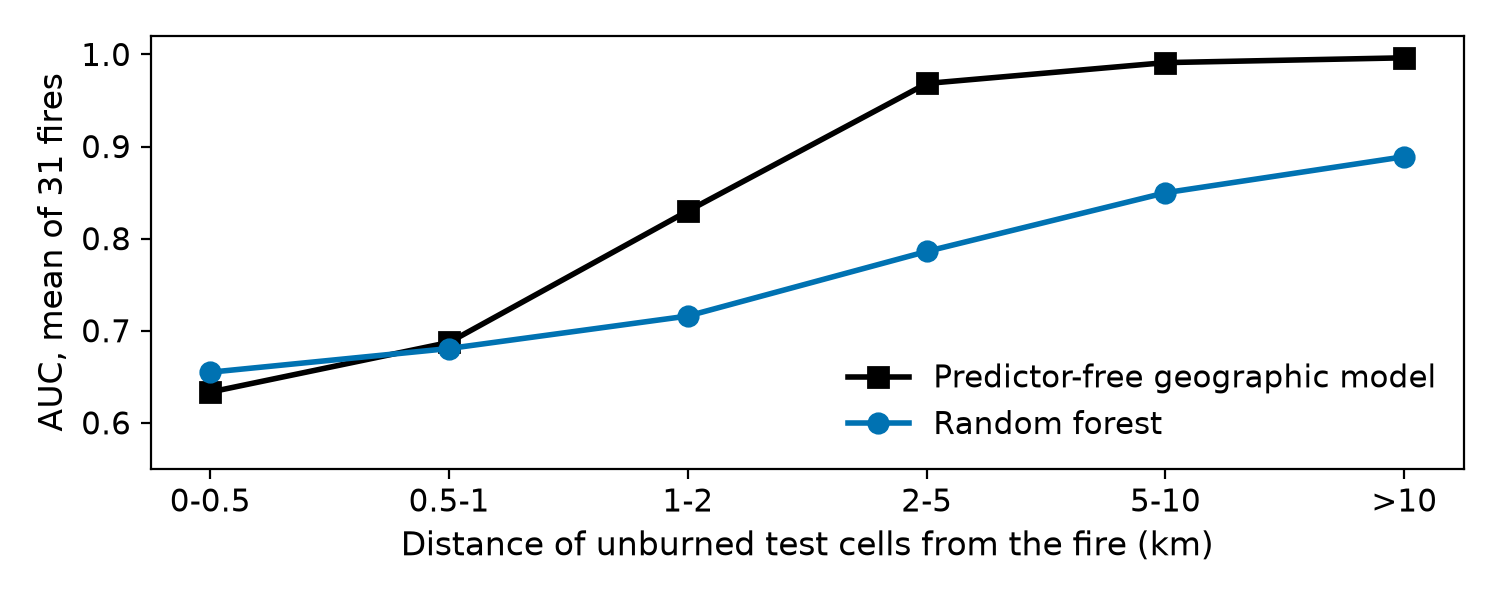
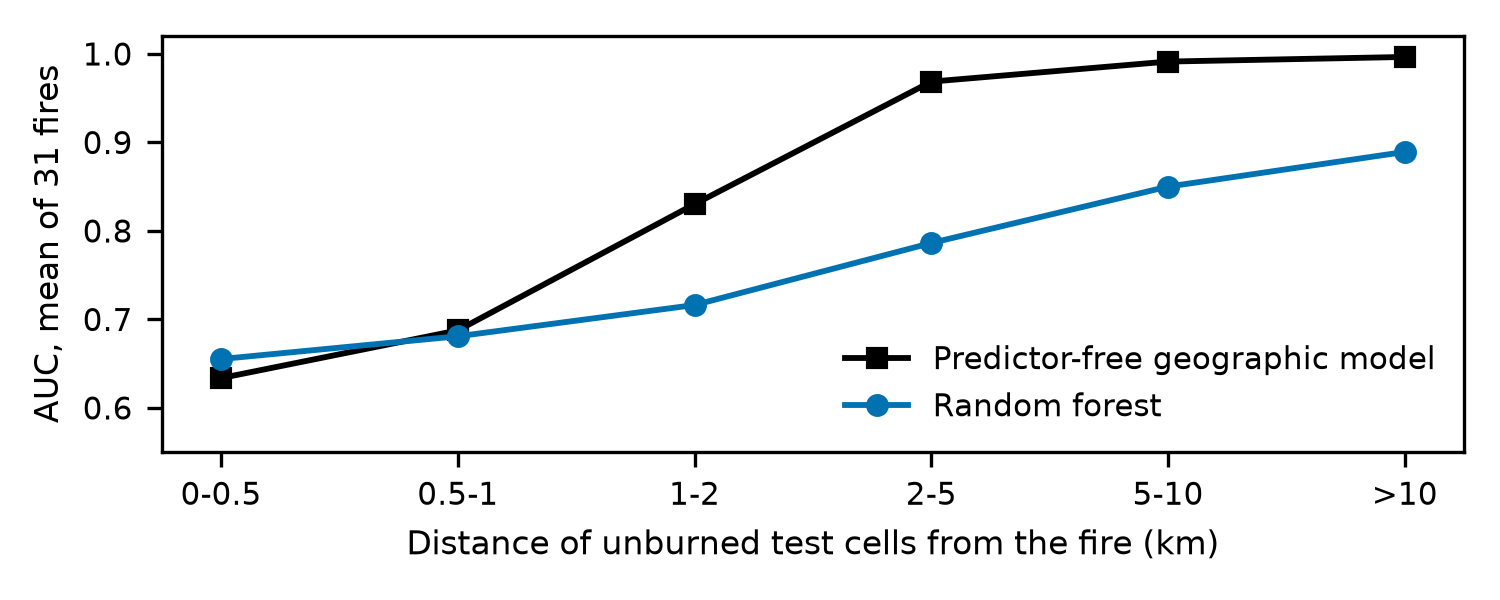
EMS draft: third review round (label-variant means over common fires, near-band reason, far-band wording, 300 dpi graphical abstract, provenance in the statistics file, strict buffer cache check)

diff --git a/paper/submissions/ems/build_values_figures.py b/paper/submissions/ems/build_values_figures.py
@@ -133,9 +133,9 @@ for b, tag in ((1, "One"), (2, "Two"), (5, "Five"), (10, "Ten")):
     scored = total = fires = 0
     for r in _fr.itertuples():
         hits = list((AN / "cache").glob(f"{r.fire}_buffer{b}_b10_*.npy"))
-        if len(hits) != 1:
-            continue
+        assert len(hits) == 1, f"expected one buffer cache file for {r.fire} at {b} km, found {len(hits)}"
         o = np.load(hits[0])[0]
+        assert len(o) == r.cells, (r.fire, b, len(o), r.cells)       # one prediction slot per population cell
         n_ok = int(np.isfinite(o).sum())
         scored, total, fires = scored + n_ok, total + len(o), fires + (n_ok > 0)
     MS["buffers"][f"{b}_km"] = {"cells_scored": scored, "cells_total": total, "fires_with_scored_cells": fires}
@@ -192,12 +192,20 @@ RB["threshold"] = RB.threshold.str.zfill(3)
 RB = RB[RB.model == "rf_thermal"]
 _bandcols = list(names)
 MS["label_variants"] = {}
+_outer = _bandcols[1:]          # the farthest band is chosen among the bands beyond 0.5 km
 for (th, vn), g in RB.groupby(["threshold", "variant"]):
     near = g["0-0.5"].to_numpy(float)
-    far = g[_bandcols].apply(lambda r: r.dropna().iloc[-1] if r.notna().any() else np.nan, axis=1).to_numpy(float)
+    far_band = g[_outer].apply(lambda r: r.dropna().index[-1] if r.notna().any() else None, axis=1)
+    far = np.array([g.loc[i, b] if b is not None else np.nan for i, b in far_band.items()], float)
+    both = np.isfinite(near) & np.isfinite(far)            # every mean below is over the same fires
     rise = far - near
     tag = {"mcd64a1": "Mcd", "b_drop_ambiguous": "Drop", "c_relabel": "Relabel", "a_s2_label": "Stwo"}[vn] + ("" if th == "027" else "Loose")
-    st = {"near": boot(near), "far": boot(far), "rise": boot(rise), "fires_positive_rise": int((rise > 0).sum()), "fires": int(np.isfinite(rise).sum())}
+    st = {"fires": int(both.sum()), "fires_without_near_band": int((~np.isfinite(near)).sum()),
+          "fires_without_far_band": int((~np.isfinite(far)).sum()),
+          "far_band_used": {str(k): int(v) for k, v in far_band[both].value_counts().items()},
+          "near": boot(near[both]), "far": boot(far[both]), "rise": boot(rise[both]),
+          "fires_positive_rise": int((rise[both] > 0).sum())}
+    put(f"vnoNear{tag}", st["fires_without_near_band"])
     MS["label_variants"][f"{vn}_{th}"] = st
     ci(f"vfar{tag}", st["far"]), ci(f"vrise{tag}", st["rise"]), put(f"vrisePos{tag}", f"{st['fires_positive_rise']} of {st['fires']}"), put(f"vriseN{tag}", st["fires"])
 
@@ -284,7 +292,32 @@ if (AN / "claim4_summary.json").exists():
     put("curveLastK", ks[-1])
 
 MS["note"] = ("Statistics computed by build_values_figures.py from the analysis outputs. transfer_fire_level supersedes "
-              "the direction-level intervals in claim4_summary.json (plan amendment 3).")
+              "the direction-level intervals in claim4_summary.json (plan amendment 3). label_variants: near, far and rise "
+              "are means over the same fires (those with both bands scored); far is the farthest band beyond 0.5 km with "
+              "at least 20 unburned cells, and far_band_used counts which band that was.")
+
+
+def _git(path):
+    import subprocess
+    r = subprocess.run(["git", "-C", str(path), "rev-parse", "HEAD"], capture_output=True, text=True)
+    d = subprocess.run(["git", "-C", str(path), "status", "--porcelain"], capture_output=True, text=True)
+    return {"commit": r.stdout.strip(), "uncommitted_changes": bool(d.stdout.strip())}
+
+
+def _sha(p):
+    import hashlib
+    h = hashlib.sha256()
+    with open(p, "rb") as f:
+        for chunk in iter(lambda: f.read(1 << 20), b""):
+            h.update(chunk)
+    return h.hexdigest()
+
+
+MS["provenance"] = {
+    "analysis_checkout": _git(REPO), "build_checkout": _git(HERE),
+    "bootstrap": {"resamples": 2000, "seed": 42, "unit": "fire (node bootstrap for transfer directions)"},
+    "inputs_sha256": {p.name: _sha(p) for p in sorted(AN.glob("*.json")) + sorted(AN.glob("*.csv"))},
+}
 (HERE / "manuscript_statistics.json").write_text(json.dumps(MS, indent=1), encoding="utf-8")
 (HERE / "values.tex").write_text("% written by build_values_figures.py, do not edit\n" +
                                  "".join(f"\\newcommand{{\\v{k}}}{{{v}}}\n" for k, v in sorted(V.items())), encoding="utf-8")
@@ -341,18 +374,19 @@ fig.savefig(FIG / "Figure_2.pdf")
 plt.close(fig)
 
 # graphical abstract: its own wide layout, 5:2 (7.5 x 3 in at 200 dpi = 1500 x 600 px), two models only
-with plt.rc_context({"font.size": 12, "axes.labelsize": 12, "xtick.labelsize": 11, "ytick.labelsize": 11, "legend.fontsize": 11}):
-    fig, ax = plt.subplots(figsize=(7.5, 3.0))
+# 5 x 2 in at 300 dpi = 1500 x 600 px (Elsevier: 5:2, at least 300 dpi); fonts sized for that print width
+with plt.rc_context({"font.size": 8, "axes.labelsize": 8, "xtick.labelsize": 7.5, "ytick.labelsize": 7.5, "legend.fontsize": 7.5}):
+    fig, ax = plt.subplots(figsize=(5.0, 2.0))
     for m, lab in (("null", "Predictor-free geographic model"), ("rf_thermal", "Random forest")):
         mean = [P["bands"][b][f"auc_{m}"]["mean"] for b in order]
-        ax.plot(xs, mean, marker=MRK[m], color=COL[m], ms=7, lw=2, label=lab)
+        ax.plot(xs, mean, marker=MRK[m], color=COL[m], ms=4.5, lw=1.4, label=lab)
     ax.set_xticks(xs, ["0-0.5", "0.5-1", "1-2", "2-5", "5-10", ">10"])
     ax.set_xlabel("Distance of unburned test cells from the fire (km)")
     ax.set_ylabel("AUC, mean of 31 fires")
     ax.set_ylim(0.55, 1.02)
     ax.legend(frameon=False, loc="lower right")
     fig.tight_layout()
-    fig.savefig(HERE / "graphical_abstract.png", dpi=200)
+    fig.savefig(HERE / "graphical_abstract.png", dpi=300)
 plt.close(fig)
 
 # Fig. 3: label check, share of MCD64A1-unburned cells that Sentinel-2 maps as at least half burned, by band

diff --git a/paper/submissions/ems/manuscript.tex b/paper/submissions/ems/manuscript.tex
@@ -177,7 +177,7 @@ With the predictions fixed, the forest's AUC rose from \vbandARf{} [\vbandARfLo,
 \subsection{Edge labels}
 \label{sec:res-labels}
 
-The check covered \vsTwoUsed{} cells, and \vsTwoExcluded{} cells were left out for lack of valid Sentinel-2 pixels. With the planned threshold of 0.10, \vlerrLooseA\% of the unburned cells in the nearest band were at least half burned, but so were \vlerrLooseF\% of those beyond 10~km (Fig.~\ref{fig:labels}). With the stricter threshold the shares were \vlerrA\% [\vlerrALo, \vlerrAHi] and \vlerrF\%. Reading the stricter threshold as the more credible one, because the looser one flags many cells far from any fire, is our judgement after seeing the results. Under both thresholds the decision rule kept the band result. With the MCD64A1 label the nearest band scored \vnearMcd{} and the farthest \vfarMcd{}. Removing the ambiguous unburned cells gave \vnearDropLoose{} in the nearest band with the planned threshold and \vnearDrop{} with the stricter one, closing \vclosedDropLoose\% and \vclosedDrop\% of the gap (means over fires of the per-fire ratio). Relabelling the missed cells as burned gave \vnearRelabelLoose{} and \vnearRelabel{}, and the Sentinel-2 label alone gave \vnearStwoLoose{} and \vnearStwo{}. The farthest band changed less under every variant, and the mean rise from the nearest to the farthest band stayed positive, from \vvriseDropLoose{} to \vvriseStwoLoose{} with the planned threshold and from \vvriseDrop{} to \vvriseStwo{} with the stricter one. It was positive in every fire that kept both bands. Under the planned threshold with ambiguous cells removed, only \vvriseNDropLoose{} fires kept a farthest band with enough unburned cells. The alternative labels we tried thus did not remove the low score near the fire.
+The check covered \vsTwoUsed{} cells, and \vsTwoExcluded{} cells were left out for lack of valid Sentinel-2 pixels. With the planned threshold of 0.10, \vlerrLooseA\% of the unburned cells in the nearest band were at least half burned, but so were \vlerrLooseF\% of those beyond 10~km (Fig.~\ref{fig:labels}). With the stricter threshold the shares were \vlerrA\% [\vlerrALo, \vlerrAHi] and \vlerrF\%. Reading the stricter threshold as the more credible one, because the looser one flags many cells far from any fire, is our judgement after seeing the results. Under both thresholds the decision rule kept the band result. With the MCD64A1 label the nearest band scored \vnearMcd{} and the farthest \vfarMcd{}. Removing the ambiguous unburned cells gave \vnearDropLoose{} in the nearest band with the planned threshold and \vnearDrop{} with the stricter one, closing \vclosedDropLoose\% and \vclosedDrop\% of the gap (means over fires of the per-fire ratio). Relabelling the missed cells as burned gave \vnearRelabelLoose{} and \vnearRelabel{}, and the Sentinel-2 label alone gave \vnearStwoLoose{} and \vnearStwo{}. The farthest band changed less under every variant, and the mean rise from the nearest to the farthest band, computed over the fires in which both bands could be scored, stayed positive, from \vvriseDropLoose{} to \vvriseStwoLoose{} with the planned threshold and from \vvriseDrop{} to \vvriseStwo{} with the stricter one. It was positive in every one of those fires. Under the planned threshold with ambiguous cells removed, the nearest band of \vvnoNearDropLoose{} fires kept fewer than 20 unburned cells, so that variant covers \vvriseNDropLoose{} fires. The alternative labels we tried thus did not remove the low score near the fire.
 
 \begin{figure}[t]
 \centering
@@ -259,7 +259,7 @@ For transfer, raw scores near 0.5 agree with the four-fire results of \citet{Sta
 \subsection{Recommendations}
 \label{sec:disc-protocol}
 
-Three additions to a susceptibility study would make its AUC readable. The first is to report the geographic null model under the same split, which costs one nearest-neighbour query per fold. The second is to report the AUC on distance-matched pairs and the calibrated AUC next to the usual one. The third is to report the AUC of the fixed predictions by distance band, or at least within 1~km of the fire, which is where a susceptibility map is used to choose between neighbouring stands. A score that does not beat the null model, or beats it only far from the fire, does not show discrimination beyond the geographic comparator. The analysis code is released so that the three numbers can be added to an existing study with its own data and folds.
+Three additions to a susceptibility study would make its AUC readable. The first is to report the geographic null model under the same split, which costs one nearest-neighbour query per fold. The second is to report the AUC on distance-matched pairs and the calibrated AUC next to the usual one. The third is to report the AUC of the fixed predictions by distance band, or at least within 1~km of the fire, which is where a susceptibility map is used to choose between neighbouring stands. A model that does not beat the null model shows no discrimination beyond the geographic comparator, and a model that beats it only far from the fire shows none near the fire, where the comparison is hardest. The analysis code is released so that the three numbers can be added to an existing study with its own data and folds.
 
 \subsection{Limitations}
 \label{sec:disc-limits}

diff --git a/paper/submissions/ems/values.tex b/paper/submissions/ems/values.tex
@@ -482,9 +482,9 @@
 \newcommand{\vvfarDrop}{0.890}
 \newcommand{\vvfarDropHi}{0.909}
 \newcommand{\vvfarDropLo}{0.870}
-\newcommand{\vvfarDropLoose}{0.885}
-\newcommand{\vvfarDropLooseHi}{0.906}
-\newcommand{\vvfarDropLooseLo}{0.862}
+\newcommand{\vvfarDropLoose}{0.881}
+\newcommand{\vvfarDropLooseHi}{0.904}
+\newcommand{\vvfarDropLooseLo}{0.857}
 \newcommand{\vvfarMcdLoose}{0.889}
 \newcommand{\vvfarMcdLooseHi}{0.908}
 \newcommand{\vvfarMcdLooseLo}{0.869}
@@ -500,6 +500,13 @@
 \newcommand{\vvfarStwoLoose}{0.777}
 \newcommand{\vvfarStwoLooseHi}{0.823}
 \newcommand{\vvfarStwoLooseLo}{0.728}
+\newcommand{\vvnoNearDrop}{0}
+\newcommand{\vvnoNearDropLoose}{9}
+\newcommand{\vvnoNearMcdLoose}{0}
+\newcommand{\vvnoNearRelabel}{0}
+\newcommand{\vvnoNearRelabelLoose}{0}
+\newcommand{\vvnoNearStwo}{0}
+\newcommand{\vvnoNearStwoLoose}{0}
 \newcommand{\vvriseDrop}{0.227}
 \newcommand{\vvriseDropHi}{0.255}
 \newcommand{\vvriseDropLo}{0.200}

diff --git a/paper/submissions/ems/README.md b/paper/submissions/ems/README.md
@@ -18,7 +18,8 @@ Manuscript "A predictor-free geographic reference for evaluating wildfire suscep
 
 ## Code versions
 
-- Analysis: branch `scaleup-31fires` of this repository, scripts in `scripts/scaleup/`, plan and its three
+- Analysis: branch `scaleup-31fires` of this repository (the commit used for a build is recorded in
+  `manuscript_statistics.json` under `provenance`), scripts in `scripts/scaleup/`, plan and its three
   amendments in `docs/scaleup/ANALYSIS_PLAN.md`. It builds on the upstream pipeline
   `emrehann17/satellite-thermal-digital-twin` at commit `6381f4c`.
 - The analysis reads two files of the `main` branch through `THERMAL_TWIN_PAPER` (the `paper/` folder):
@@ -38,7 +39,9 @@ Set three environment variables:
 
 Then run, from `scripts/scaleup/` on branch `scaleup-31fires`:
 
-1. `run_batch.sh` on the three worker clones (pipeline for the 31 experiments; the worker lists are in the run folder).
+1. `run_batch.sh` on the three worker clones, which also needs `THERMAL_TWIN_PYTHON` (the Python of the
+   pipeline environment). The experiment lists are the three lines of `workers.txt`, for example
+   `bash run_batch.sh w1 $(sed -n 1p workers.txt)`.
 2. `analysis_official.py` (claims 1 and 2, with the reproduction gates).
 3. `s2_label_check_export.py`, then `claim3_label_check.py` (Sentinel-2 label check).
 4. `claim4_transfer.py` (transfer and pooling).
